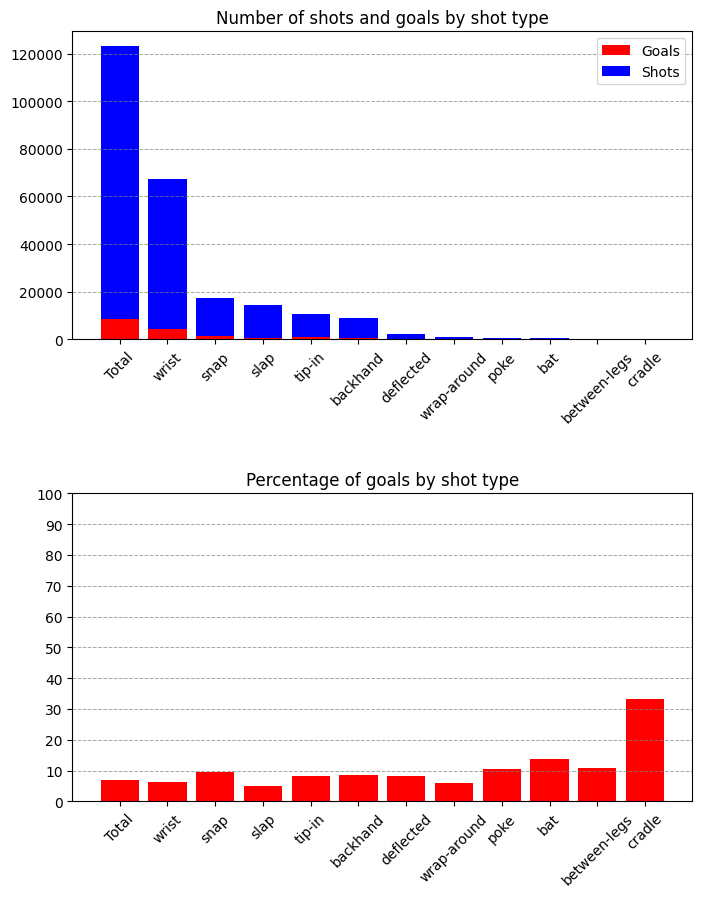
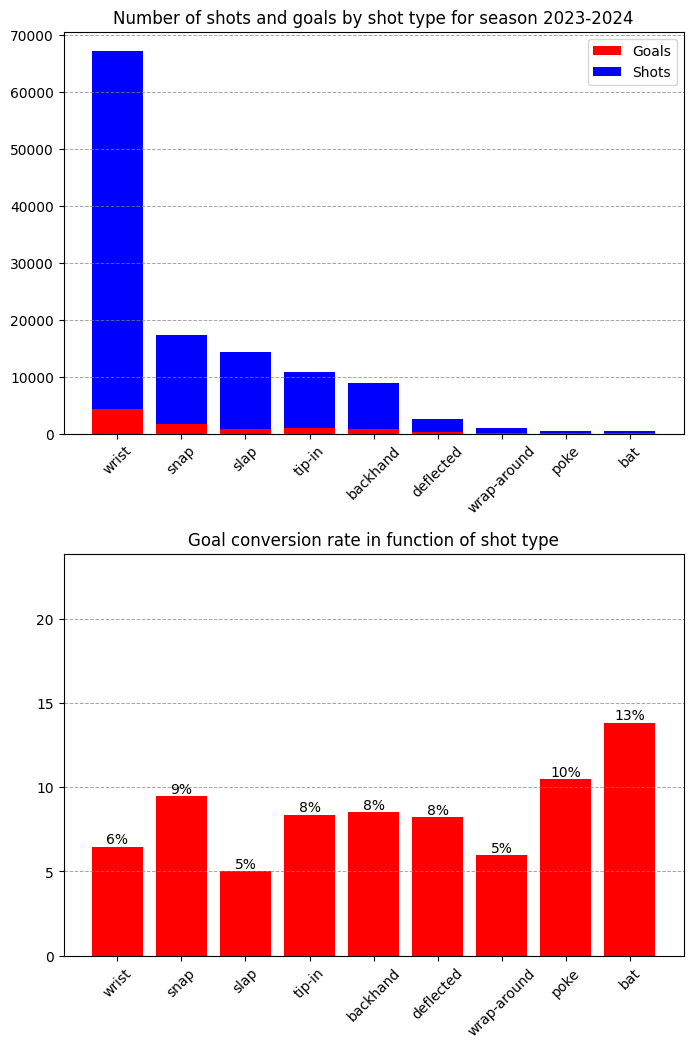
Improved and completed section 4.1

Changed region(s): [[0.0, 0.0, 1.0, 0.5619], [0.0606, 0.5307, 1.0, 0.9989]]

diff --git a/_posts/2024-09-17-milestone-1.md b/_posts/2024-09-17-milestone-1.md
@@ -77,18 +77,22 @@ We have implemented 3 widgets for the selection of the game ID: the first slider
 
 ## 4. Simple Visualizations
 ### 4.1 Shot types
+Important note: for this analysis, we have decided to drop shot types that have been used less than 0.1%, because they don't represent meaningful information, espcially when compared to other shot types.  
+The shot types drop were "between-legs" and "cradle", with 0.06% and 0.005% usage, respectively.
+
 <img src="/assets/images/simple_viz_shot_types.png" alt="2023-2044 Season Shot Types Bar plot">
 Above, we can see 2 bar plots presenting data for shot types of Season 2023-2024.
-Each bar represent a shot type used by NHL players. There is one bar (total) that contains the sum of all shot types.  
+Each bar represent a shot type used by NHL players.
 
 Bar plots are the best visualization method for this kind of data: we can clearly seperate the shot-types, while the height of each bar indicates relative information between them.  
 
-The top bar plot indicates how many shots and goals were made during the 2023-2024 Season. Note that bar height includes goals (red protion) and the sum of shot-on-goal and missed-shots (blue portion).  
+
+The top bar plot indicates how many shots and goals were made during the 2023-2024 Season. Note that bar height includes goals (red protion) and the sum of shot-on-goal and missed-shots (blue portion). We can clearly see that the wrist shot is the most used shot type.  
 
 The bottom bar plot indicates the percentage of goals for each shot type. From this second bar plot, we can draw interesting conclusions:
-- In general, when a player makes a shot, he has 8% chances to score a goal
-- "Snap" shots are a mix of writst and slap shot. They are more effective (10%) than the two others (8% and 7% respectively). You can have more details about those shot types on the [Hockey Monkey](https://www.hockeymonkey.com/learn/types-of-hockey-shots) web site.
-- The most dangerous type of shot is a "Cradle" shot. This shot is the least used because it requires a lot of finesse from the player. But the players who can master this type of shot have much more chances of scoring. We sometimes refer to those players as having "golden hands".
+- In general, when a player makes a shot, he has around 8% chances to score a goal
+- "Snap" shots are a mix of writst and slap shot. They are more effective (9%) than the wrist and slap shots (6% and 5% respectively). You can have more details about those shot types on the [Hockey Monkey](https://www.hockeymonkey.com/learn/types-of-hockey-shots) web site.
+- The most dangerous types of shot seem to be "poke" and "bat" shot type. However, these 2 shot type are not well documented in most hockey analysis web site. We suppose this is because those shot-type are used based on specific opportunities during the game. This means that they happen more often by chance, than by choice of the player. If we concentrate our analysis on shot types selected by players, <u>the snap shot is the most dangerous shot type</u>.
 
 
 ### 4.2 Goal conversion rate vs distance
